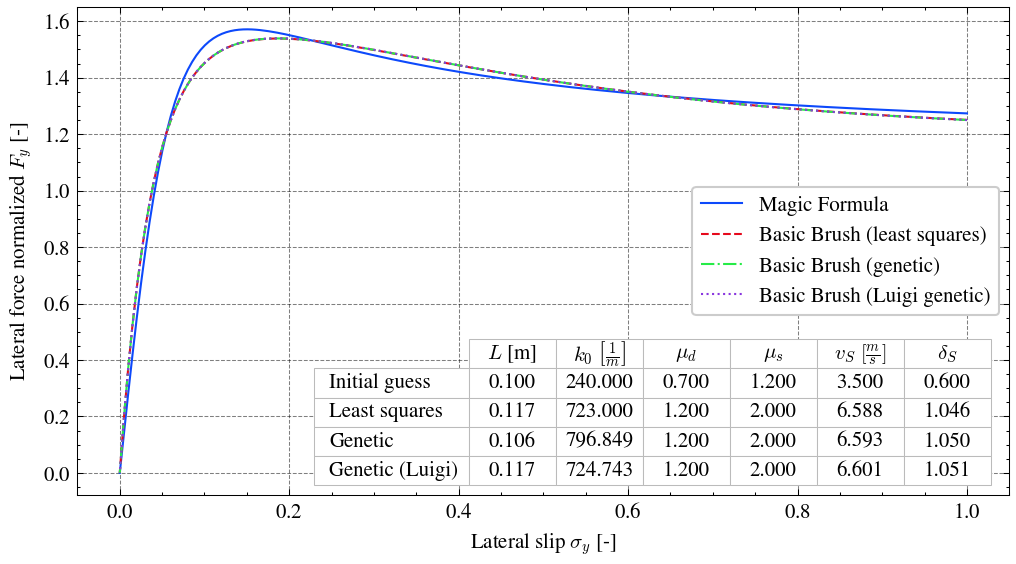
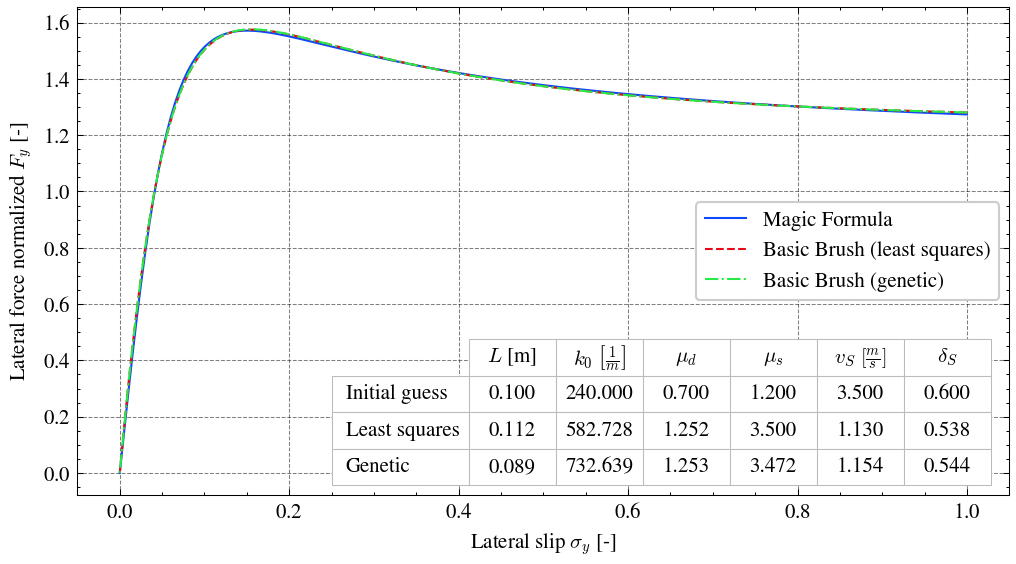
Modified mu_S to be mu_s*mu_d and made plot with good results no norm in x

diff --git a/Base_setup/main.py b/Base_setup/main.py
@@ -12,7 +12,7 @@ def residual(params, *args):
     res_BB = basic_brush(contact_len=params[0],
                          k_bristle=params[1],
                          mu_d=params[2],
-                         mu_s=params[3],
+                         mu_s=params[3]*params[2], #mu_s*mu_d test
                          vel_stribeck=params[4],
                          exp_stribeck=params[5],
                          v_rel=args[0],
@@ -90,8 +90,8 @@ if __name__ == "__main__":
     upper_bounds = np.array([
         0.12,
         800,
-        1.2,
         2,
+        3.5,
         20,
         2,
     ])
@@ -116,7 +116,7 @@ if __name__ == "__main__":
     res_genetic = differential_evolution(residual_genetic,
                         bounds=genetic_bounds,
                         args=(v_rel, v_tyre, n_x, Fz),
-                        maxiter=300,
+                        maxiter=100,#300,
                         popsize=100,
                         workers=-1,
                         polish=False,
@@ -134,7 +134,7 @@ if __name__ == "__main__":
                         contact_len=res_lstsqrs.x[0],
                         k_bristle=res_lstsqrs.x[1],
                         mu_d=res_lstsqrs.x[2],
-                        mu_s=res_lstsqrs.x[3],
+                        mu_s=res_lstsqrs.x[3]*res_lstsqrs.x[2],
                         vel_stribeck=res_lstsqrs.x[4],
                         exp_stribeck=res_lstsqrs.x[5],
                         return_z=False, #return z0 for symbolic term
@@ -146,21 +146,21 @@ if __name__ == "__main__":
                                 contact_len=res_genetic.x[0],
                                 k_bristle=res_genetic.x[1],
                                 mu_d=res_genetic.x[2],
-                                mu_s=res_genetic.x[3],
+                                mu_s=res_genetic.x[3]*res_genetic.x[2],
                                 vel_stribeck=res_genetic.x[4],
                                 exp_stribeck=res_genetic.x[5],
                                 return_z=False, #return z0 for symbolic term
                                 )
 
-    Fs_BB_genetic_Luigi = np.genfromtxt("Base_setup/Model_library/y_data_brush_genetic_luigi.csv", dtype=float)
-    genetic_luigi_parameters = np.array([
-        0.1167,
-        724.7433,
-        1.1999,
-        2.0000,
-        6.6007,
-        1.0509,
-    ])
+    # Fs_BB_genetic_Luigi = np.genfromtxt("Base_setup/Model_library/y_data_brush_genetic_luigi.csv", dtype=float)
+    # genetic_luigi_parameters = np.array([
+    #     0.1167,
+    #     724.7433,
+    #     1.1999,
+    #     2.0000,
+    #     6.6007,
+    #     1.0509,
+    # ])
 
     #print parameters
     print("full results least squares")
@@ -204,18 +204,18 @@ if __name__ == "__main__":
         ax.plot(sigma_x, Fs_MF,               label="Magic Formula",              linewidth=1)
         ax.plot(sigma_x, Fs_BB,               label="Basic Brush (least squares)", linewidth=1)
         ax.plot(sigma_x, Fs_BB_genetic,       label="Basic Brush (genetic)",       linewidth=1, )
-        ax.plot(sigma_x, Fs_BB_genetic_Luigi, label="Basic Brush (Luigi genetic)", linewidth=1, )
+        # ax.plot(sigma_x, Fs_BB_genetic_Luigi, label="Basic Brush (Luigi genetic)", linewidth=1, )
         ax.set_xlabel(r'Lateral slip $\sigma_y$ [-]')
         ax.set_ylabel(r'Lateral force normalized $F_y$ [-]')
         ax.legend(loc="right")
 
         col_labels = [r"$L$ [m]", r"$k_0\ \left[\frac{1}{m}\right]$", r"$\mu_d$", r"$\mu_s$", r"$v_S\ \left[\frac{m}{s}\right]$", r"$\delta_S$"]
-        row_labels = ["Initial guess", "Least squares", "Genetic", "Genetic (Luigi)"]
+        row_labels = ["Initial guess", "Least squares", "Genetic"] #, "Genetic (Luigi)"
         table_data = [
             [f"{v:.3f}" for v in initial_guess],
             [f"{v:.3f}" for v in res_lstsqrs.x],
             [f"{v:.3f}" for v in res_genetic.x],
-            [f"{v:.3f}" for v in genetic_luigi_parameters],
+            # [f"{v:.3f}" for v in genetic_luigi_parameters],
         ]
 
         tbl = ax.table(